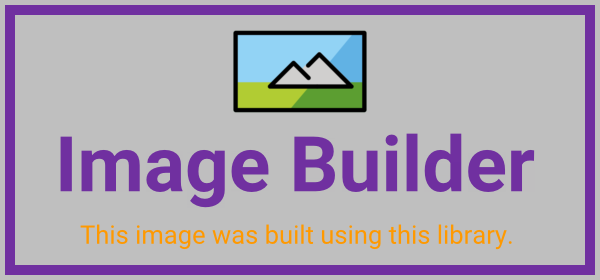
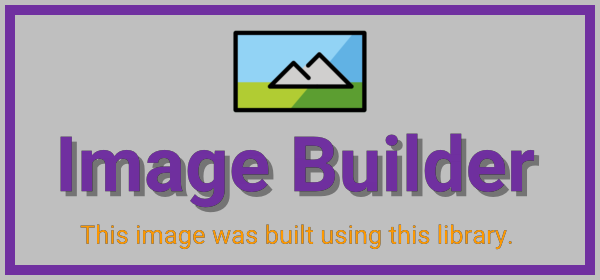
add strategy to render transparency

diff --git a/src/image.rs b/src/image.rs
@@ -87,16 +87,23 @@ impl<'a> Image<'a> {
                 Element::Text(element) => {
                     let t = text::extract(&element);
                     let font = self.fonts.get(t.font_name).expect(&format!("Unable to load the \"{}\" font, please verify that the name is correct or that it was loaded using the \"add_custom_font\" method.", t.font_name));
-                    draw_text_mut(&mut image, t.color, t.x, t.y, t.scale, font, t.content);
+                    let mut text_image =
+                        ImageBuffer::from_pixel(self.size.0, self.size.1, Rgba([0, 0, 0, 0]));
+                    draw_text_mut(&mut text_image, t.color, 0, 0, t.scale, font, t.content);
+                    overlay(&mut image, &text_image, t.x as i64, t.y as i64);
                 }
                 Element::Rect(element) => {
                     let r = rect::extract(element);
+                    let mut rect_image =
+                        ImageBuffer::from_pixel(r.width, r.height, Rgba([0, 0, 0, 0]));
 
                     draw_filled_rect_mut(
-                        &mut image,
-                        procRect::Rect::at(r.x, r.y).of_size(r.width, r.height),
+                        &mut rect_image,
+                        procRect::Rect::at(0, 0).of_size(r.width, r.height),
                         r.color,
-                    )
+                    );
+
+                    overlay(&mut image, &rect_image, r.x as i64, r.y as i64);
                 }
             }
         }

diff --git a/src/main.rs b/src/main.rs
@@ -36,6 +36,14 @@ fn main() {
         Text::new("Image Builder")
             .size(90)
             .font("Roboto bold")
+            .position(60, 125)
+            .color([0, 0, 0, 100]),
+    );
+
+    image.add_text(
+        Text::new("Image Builder")
+            .size(90)
+            .font("Roboto bold")
             .position(55, 120)
             .color(colors::PURPLE),
     );
